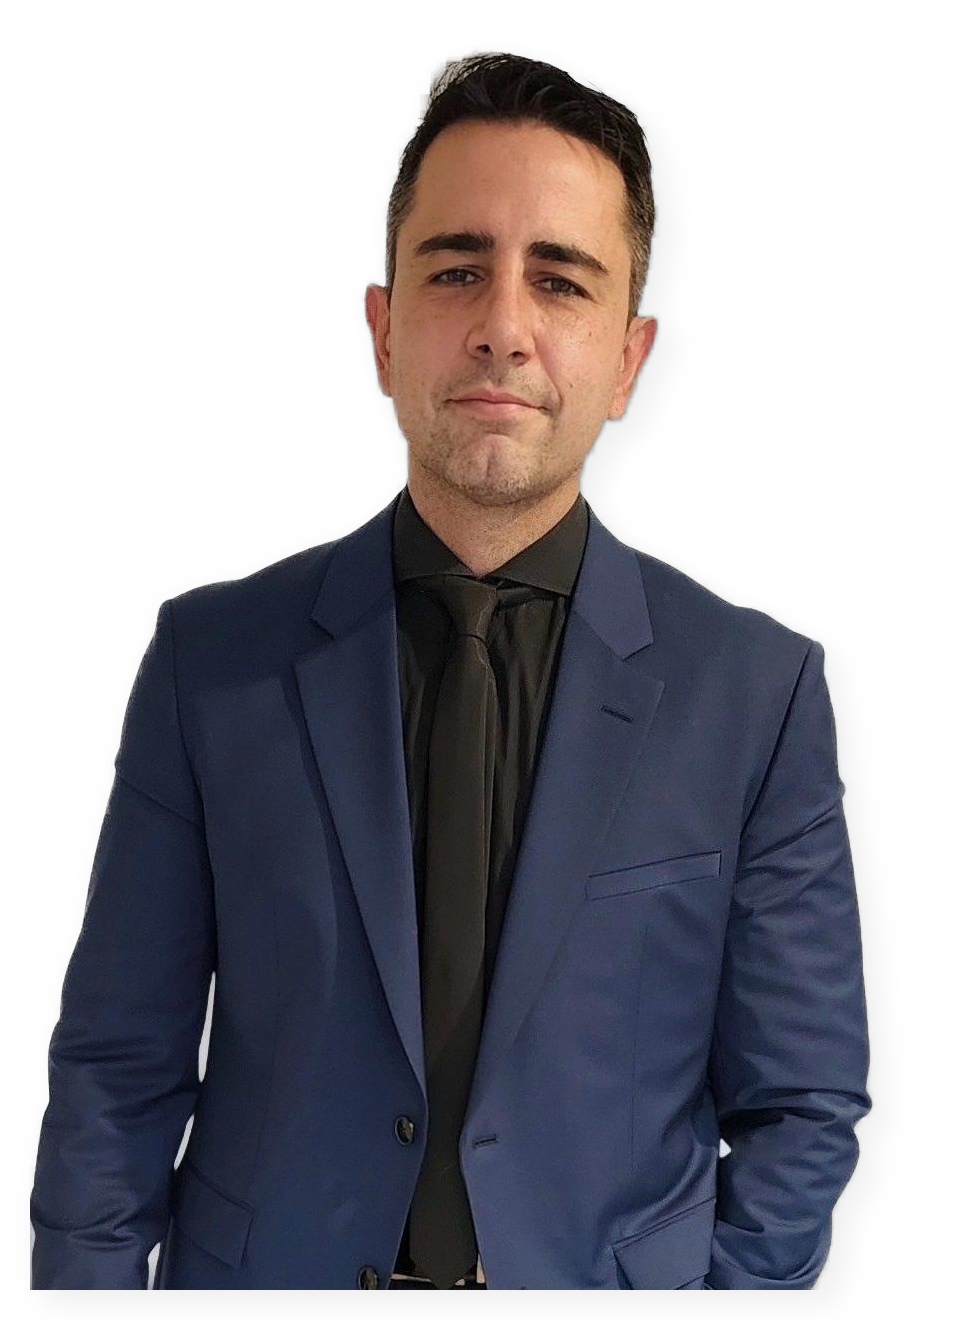
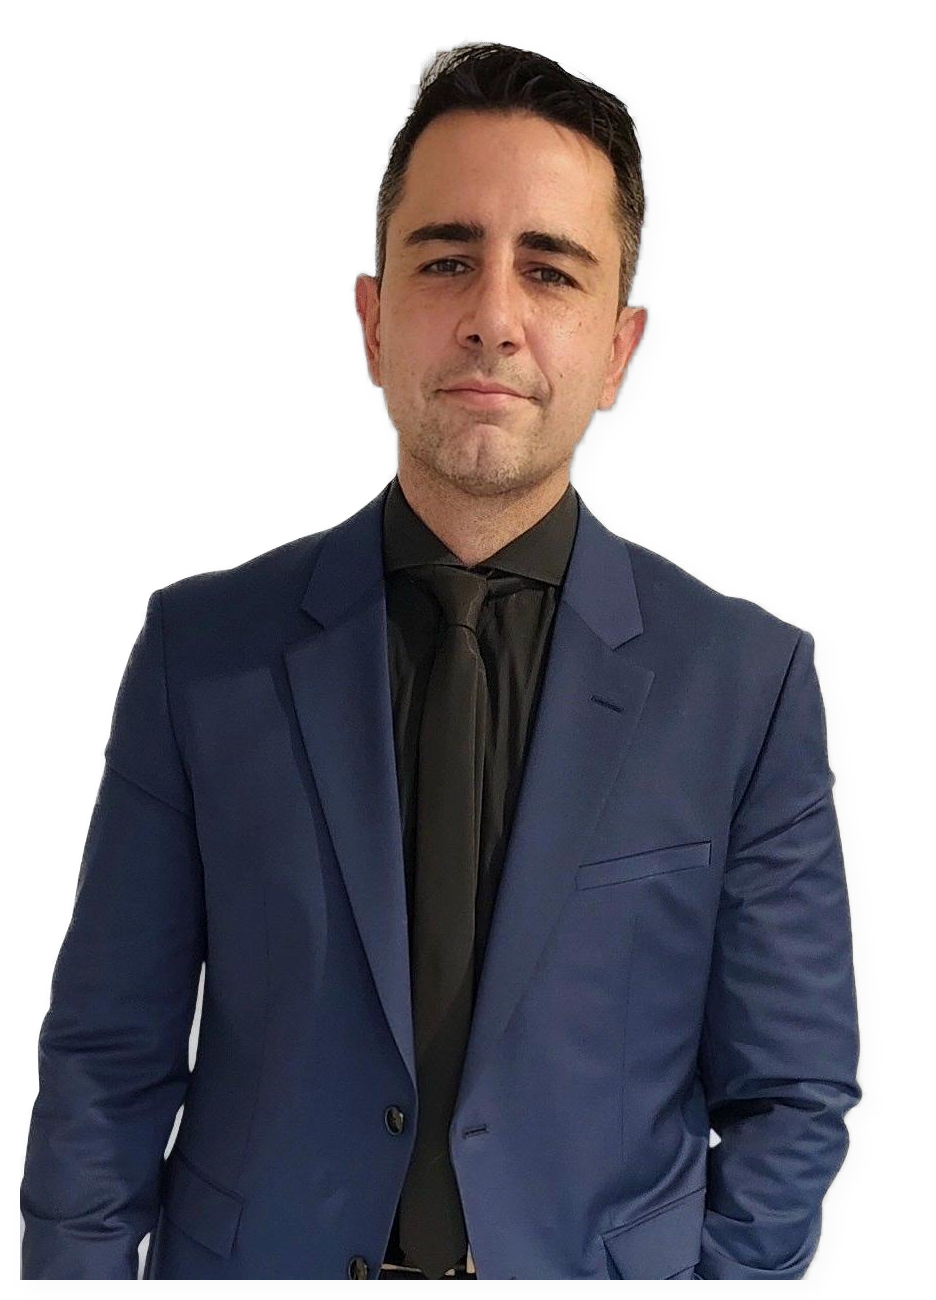
Add files via upload

diff --git a/index.html b/index.html
@@ -409,21 +409,12 @@
             <div class="grid md:grid-cols-2 gap-12 lg:gap-16 items-center">
                 <!-- Image -->
                 <div class="relative order-2 md:order-1">
-                    <!-- Glow behind photo -->
-                    <div class="absolute inset-0 flex items-center justify-center">
-                        <div class="w-80 h-80 bg-accent/20 rounded-full blur-3xl"></div>
-                    </div>
-                    
-                    <div class="relative aspect-[4/5] flex items-end justify-center">
+                    <div class="relative flex items-end justify-center">
                         <img src="nicolas-nobg.png" 
                              alt="Dr. Nicolás Genise - Director de la Especialización en Psicopedagogía Clínica" 
-                             class="about-photo-enhanced h-full w-auto object-contain object-bottom relative z-10 max-h-[500px]"
+                             class="h-auto w-auto object-contain object-bottom relative z-10 max-h-[520px] drop-shadow-2xl"
                              loading="lazy">
                     </div>
-                    
-                    <!-- Decorative elements -->
-                    <div class="absolute -bottom-4 -left-4 w-24 h-24 border-2 border-white/20 rounded-2xl -z-10"></div>
-                    <div class="absolute -top-4 -right-4 w-16 h-16 bg-accent/30 rounded-full blur-xl"></div>
                 </div>
                 
                 <!-- Content -->
@@ -501,19 +492,6 @@
     </section>
     
     <!-- ========================================
-         LOGOS INSTITUCIONALES
-         ======================================== -->
-    <section class="py-12 bg-gray-50">
-        <div class="max-w-5xl mx-auto px-4 sm:px-6">
-            <p class="text-center text-gray-500 text-sm font-medium uppercase tracking-wider mb-8">Instituciones y organizaciones</p>
-            <div class="flex flex-wrap justify-center items-center gap-8 md:gap-16">
-                <img src="logo-uflo.png" alt="Universidad de Flores" class="h-16 md:h-20 object-contain opacity-80 hover:opacity-100 transition-opacity">
-                <img src="logo-tcm.png" alt="TCM Terapia Cognitiva" class="h-14 md:h-16 object-contain opacity-80 hover:opacity-100 transition-opacity">
-            </div>
-        </div>
-    </section>
-    
-    <!-- ========================================
          ESPECIALIZACIÓN - Textos mejorados
          ======================================== -->
     <section id="especializacion" class="py-20 md:py-28 bg-white section-transition-top">
@@ -549,6 +527,16 @@
                     <p class="text-3xl md:text-4xl font-bold text-primary-600 mb-1">CONEAU</p>
                     <p class="text-sm text-gray-600">Acreditación</p>
                 </div>
+            </div>
+            
+            <!-- Logos Institucionales -->
+            <div class="flex flex-wrap justify-center items-center gap-10 md:gap-16 mb-16">
+                <a href="https://www.uflouniversidad.edu.ar/" target="_blank" rel="noopener noreferrer" class="opacity-80 hover:opacity-100 transition-opacity">
+                    <img src="logo-uflo.png" alt="Universidad de Flores" class="h-20 md:h-24 object-contain">
+                </a>
+                <a href="https://tcmcognitiva.com/" target="_blank" rel="noopener noreferrer" class="opacity-80 hover:opacity-100 transition-opacity">
+                    <img src="logo-tcm.png" alt="TCM Terapia Cognitiva" class="h-20 md:h-24 object-contain">
+                </a>
             </div>
             
             <!-- Features Grid -->
